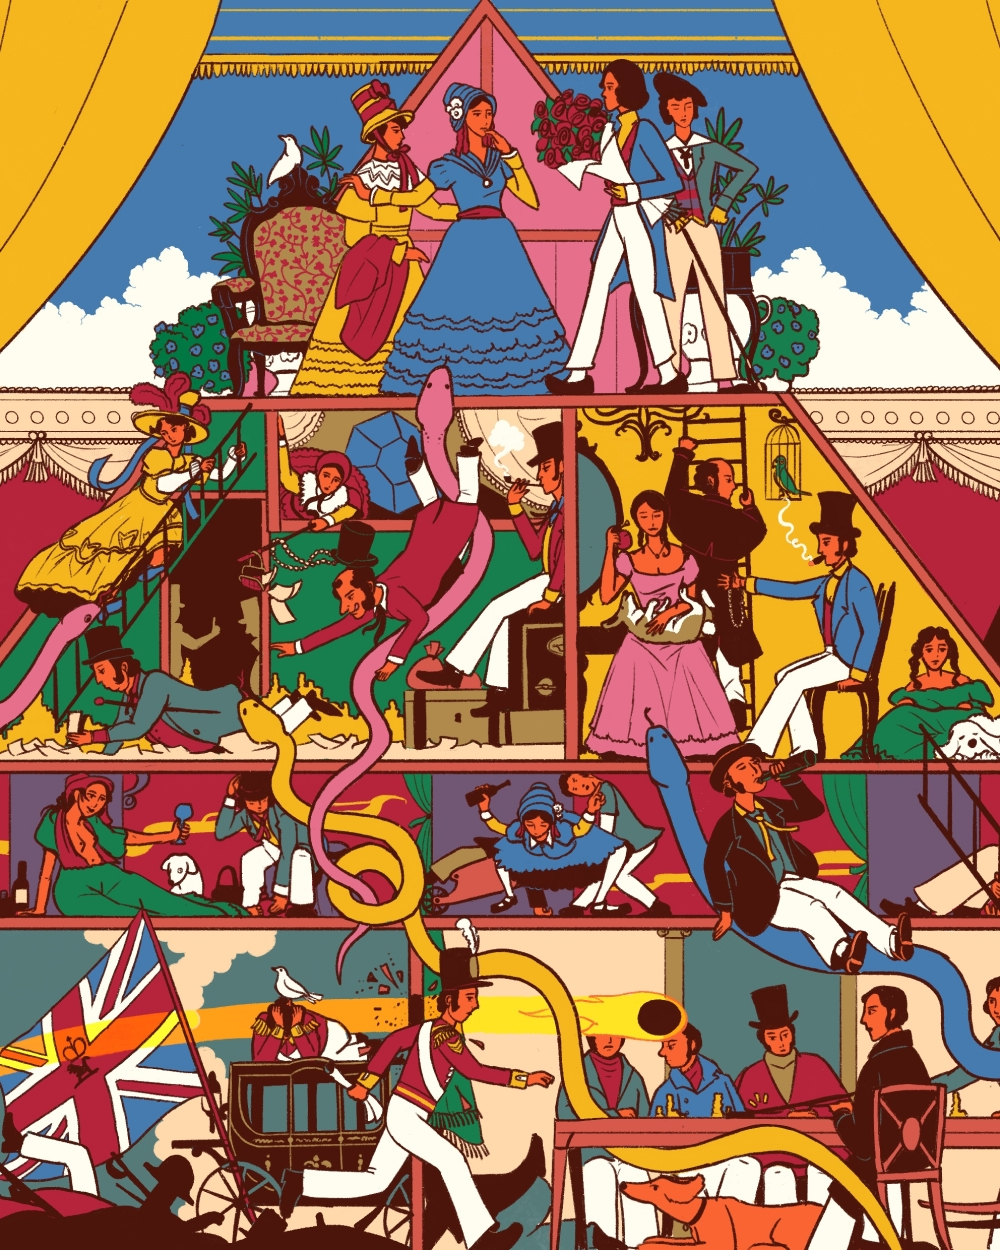
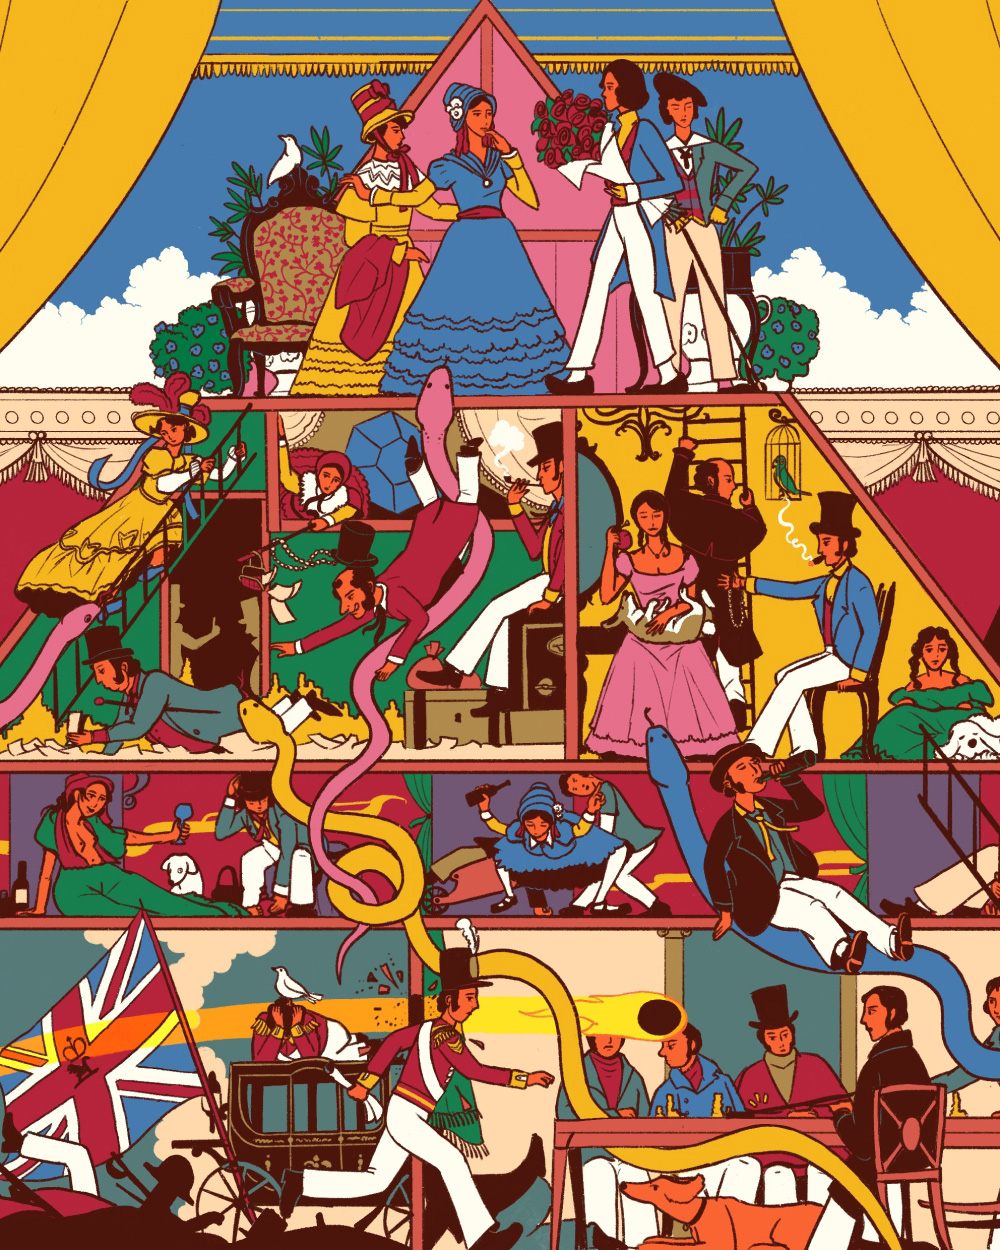
update img

Changed region(s): [[0.527, 0.0, 0.775, 0.0624], [0.217, 0.0312, 0.403, 0.0624]]

diff --git a/illustration/index.html b/illustration/index.html
@@ -77,6 +77,14 @@
                 </div>
         </div>
         <div class="index-project" loading="lazy">
+                <img src="/img/Illustrations/Mattoni_4.jpg" class="thumb-img">
+                <div class="overlay">
+                    <img src="/img/Illustrations/Mattoni_4.jpg" alt="" class="thumb-img-hover">
+                    <div class="type-text">Editorial</div>
+                    <div class="index-project-text">Mattoni Europei</div>
+                </div>
+        </div>
+        <div class="index-project" loading="lazy">
                 <img src="/img/Illustrations/Mattoni_Vanity_Fair.jpg" class="thumb-img">
                 <div class="overlay">
                     <img src="/img/Illustrations/Mattoni_Vanity_Fair.jpg" alt="" class="thumb-img-hover">
